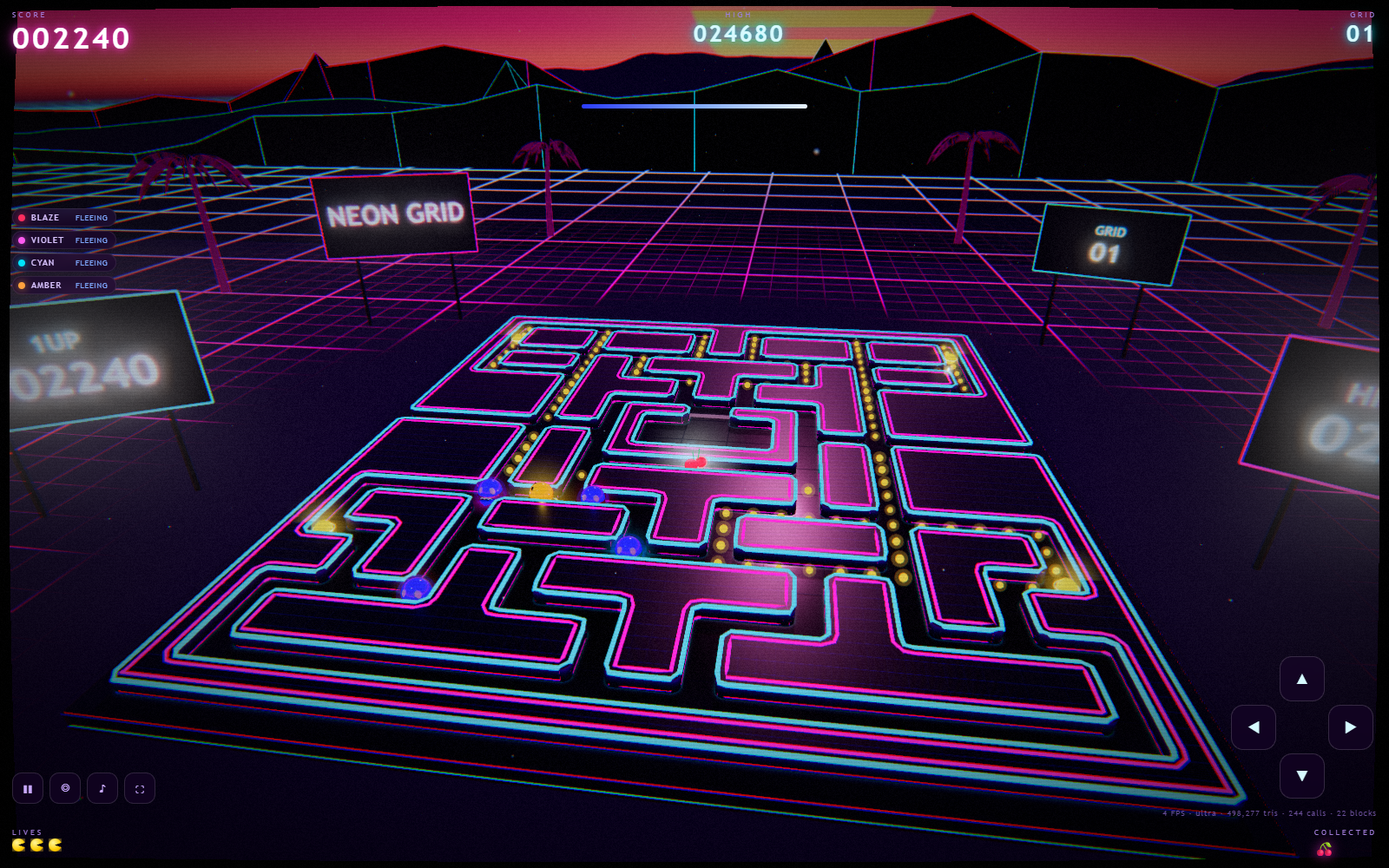
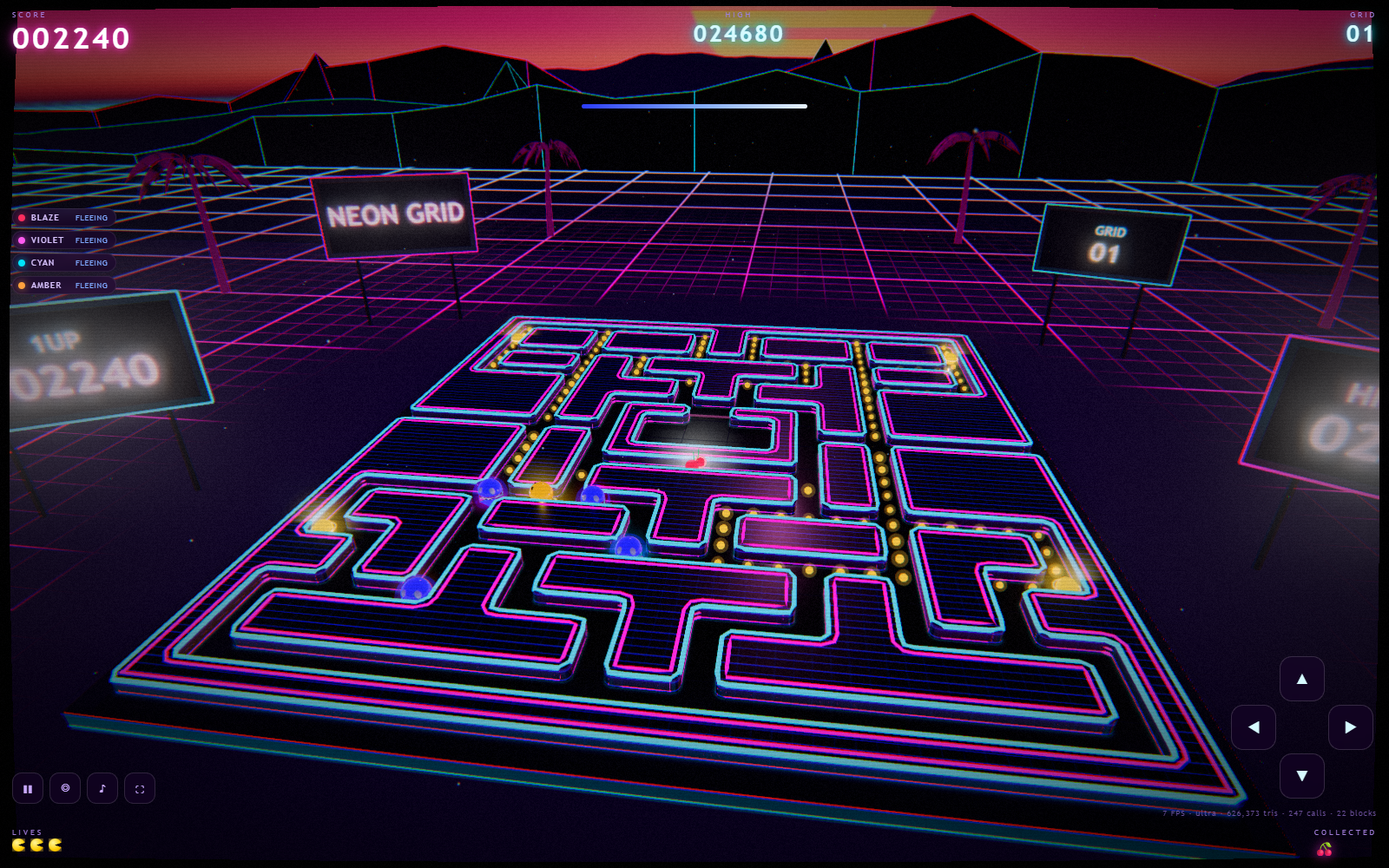
Emissive corridor panels, masked to the wall faces
The panel emissive had to be run nearly off because raising it lit the flat wall
tops, which are meant to be black mirrors. Masking the whole emissive term by the
same normal-derived side factor the rim ramp uses lets the FACES glow like backlit
panels while the tops stay dark, which is what the reference first-person shot
has and what the corridors were missing.

Also thinned the panel seams hard. At a vertical repeat of 3 with lines every
eight pixels the faces filled with dozens of stripes and read as a hypnotic
tunnel; a handful of seams across a wall reads as panelling.

README brought up to date: four cameras, the self-lighting environment bake, the
low-kerb rationale, and the three test suites.

190 assertions green.

diff --git a/docs/assets/index-DJubqB-T.js b/docs/assets/index-DJubqB-T.js
@@ -3855,7 +3855,7 @@ uniform vec3 uGhostRim;`).replace("#include <emissivemap_fragment>",`#include <e
         float a = fade * edge * (0.16 + 0.05 * sin(time * 3.0));
         gl_FragColor = vec4(colour * a * 2.0, a);
       }
-    `}),o=new ge(s,r);return i.add(o),{group:i,update(a){const l=.5+.5*Math.sin(a*3.4);n.scale.setScalar(.9+l*.25),n.rotation.y=a*.9,t.opacity=.35+l*.4,r.uniforms.time.value=a}}}const Vo=new Map;function ev(i){if(Vo.has(i))return Vo.get(i);const e=512,t=256,n=document.createElement("canvas");n.width=e,n.height=t;const s=n.getContext("2d");s.clearRect(0,0,e,t),s.font='bold 150px "Trebuchet MS", "Segoe UI", sans-serif',s.textAlign="center",s.textBaseline="middle",s.lineJoin="round",s.lineWidth=16,s.strokeStyle="rgba(6, 0, 24, 0.92)",s.strokeText(i,e/2,t/2),s.shadowColor="#00e9ff",s.shadowBlur=12,s.fillStyle="#7ef0ff",s.fillText(i,e/2,t/2);const r=new es(n);return r.colorSpace=Et,Vo.set(i,r),r}function tv(i=8){const e=new Ze,t=[];for(let n=0;n<i;n++){const s=new el({transparent:!0,depthWrite:!1,depthTest:!1,toneMapped:!1}),r=new Gu(s);r.visible=!1,r.scale.set(2.6,1.3,1),e.add(r),t.push(r)}return{group:e,sync(n){for(let s=0;s<t.length;s++){const r=t[s],o=n[s];if(!o){r.visible=!1;continue}const a=o.age/o.life;r.visible=!0;const l=ev(String(o.points));r.material.map!==l&&(r.material.map=l,r.material.needsUpdate=!0),r.position.set(ui(o.x),.7+a*1.5,hi(o.y)),r.material.opacity=1-a*a,r.scale.set(2.6+a*.8,1.3+a*.4,1)}}}}const Na=.26,Fa=i=>i-14,Oa=i=>15.5-i;function qc(i,e,t){return t<0||t>=an||e<0||e>=ht?!1:i[t][e]===_t.WALL}function nv(i){const e=new Uint8Array(ht*an),t=[];for(let n=0;n<an;n++)for(let s=0;s<ht;s++){if(!qc(i,s,n)||e[n*ht+s])continue;const r=[],o=[[s,n]];for(e[n*ht+s]=1;o.length;){const[a,l]=o.pop();r.push([a,l]);const c=[[a+1,l],[a-1,l],[a,l+1],[a,l-1]];for(const[u,h]of c)u<0||u>=ht||h<0||h>=an||!qc(i,u,h)||e[h*ht+u]||(e[h*ht+u]=1,o.push([u,h]))}t.push(r)}return t}function iv(i,e){const t=new Set(e.map(([l,c])=>`${l},${c}`)),n=(l,c)=>t.has(`${l},${c}`),s=new Map,r=(l,c,u,h)=>{const f=`${l},${c}`;s.has(f)||s.set(f,[]),s.get(f).push([u,h])};for(const[l,c]of e)n(l,c-1)||r(l+1,c,l,c),n(l,c+1)||r(l,c+1,l+1,c+1),n(l-1,c)||r(l,c,l,c+1),n(l+1,c)||r(l+1,c+1,l+1,c);const o=[];let a=0;for(;s.size&&a++<5e3;){const l=s.keys().next().value;let[c,u]=l.split(",").map(Number);const h=[[c,u]];let f=[c,u],m=0;for(;m++<5e3;){const g=`${f[0]},${f[1]}`,v=s.get(g);if(!v||v.length===0)break;const p=v.shift();if(v.length===0&&s.delete(g),f=p,f[0]===c&&f[1]===u)break;h.push(f)}h.length>=4&&o.push(h)}return o.map(sv)}function sv(i){const e=[],t=i.length;for(let n=0;n<t;n++){const s=i[(n-1+t)%t],r=i[n],o=i[(n+1)%t],a=r[0]-s[0],l=r[1]-s[1],c=o[0]-r[0],u=o[1]-r[1];a*u-l*c!==0&&e.push(r)}return e.length>=4?e:i}function Er(i){let e=0;for(let t=0;t<i.length;t++){const[n,s]=i[t],[r,o]=i[(t+1)%i.length];e+=n*o-r*s}return e/2}function Ba(i,e,t=5){const n=i.map(([o,a])=>new ne(Fa(o),Oa(a))),s=n.length,r=[];for(let o=0;o<s;o++){const a=n[(o-1+s)%s],l=n[o],c=n[(o+1)%s],u=l.clone().sub(a),h=c.clone().sub(l),f=u.length(),m=h.length();if(f<1e-6||m<1e-6)continue;u.divideScalar(f),h.divideScalar(m);const g=Math.min(e,f*.5,m*.5),v=l.clone().sub(u.clone().multiplyScalar(g)),p=l.clone().add(h.clone().multiplyScalar(g));r.push(v);for(let d=1;d<t;d++){const w=d/t,T=1-w;r.push(new ne(T*T*v.x+2*T*w*l.x+w*w*p.x,T*T*v.y+2*T*w*l.y+w*w*p.y))}r.push(p)}return r}function rv(i,e){const t=i.length;let n=0;for(let o=0;o<t;o++){const a=i[o],l=i[(o+1)%t];n+=a.x*l.y-l.x*a.y}const s=n>0?1:-1,r=[];for(let o=0;o<t;o++){const a=i[o],l=i[(o-1+t)%t],c=i[(o+1)%t],u=c.x-l.x,h=c.y-l.y,f=Math.hypot(u,h)||1,m=-h/f*s*e,g=u/f*s*e;r.push(new ne(a.x+m,a.y+g))}return r}function ov(i,e){const t=new Ku(Ba(i,Na));for(const n of e)t.holes.push(new La(Ba(n,Na)));return t}function Tr(i,e,t,n){const s=i.map(a=>new D(a.x,e,-a.y)),r=new Xu(s,!0,"catmullrom",.02),o=Math.max(24,Math.min(1200,Math.round(r.getLength()*2.4)));return new ol(r,o,t,n,!0)}function av(){const e=document.createElement("canvas");e.width=e.height=256;const t=e.getContext("2d");t.fillStyle="#000000",t.fillRect(0,0,256,256),t.strokeStyle="rgba(150, 90, 255, 0.5)",t.lineWidth=1;for(let s=4;s<256;s+=8)t.beginPath(),t.moveTo(0,s+.5),t.lineTo(256,s+.5),t.stroke();t.strokeStyle="rgba(215, 150, 255, 0.95)",t.lineWidth=2;for(let s=0;s<256;s+=32)t.beginPath(),t.moveTo(0,s+.5),t.lineTo(256,s+.5),t.stroke();t.strokeStyle="rgba(0, 220, 255, 0.28)";for(let s=0;s<256;s+=64)t.beginPath(),t.moveTo(s+.5,0),t.lineTo(s+.5,256),t.stroke();const n=new es(e);return n.colorSpace=Et,n.wrapS=bs,n.wrapT=bs,n.repeat.set(.5,3),n.anisotropy=4,n}function lv(i,e=1024){const t=document.createElement("canvas");t.width=e,t.height=e;const n=t.getContext("2d");n.fillStyle="#000000",n.fillRect(0,0,e,e);const s=34,r=l=>(l+s/2)/s*e,o=[{blur:34,width:11,alpha:.13},{blur:16,width:6,alpha:.24},{blur:6,width:2.6,alpha:.62}];for(const l of o){n.save(),n.globalCompositeOperation="lighter",n.shadowBlur=l.blur,n.lineWidth=l.width,n.lineJoin="round",n.lineCap="round";for(const{poly:c,near:u}of i){const h=u?`rgba(255, 60, 220, ${l.alpha})`:`rgba(60, 230, 255, ${l.alpha})`;n.strokeStyle=h,n.shadowColor=h,n.beginPath(),c.forEach((f,m)=>{const g=r(f.x),v=e-r(f.y);m===0?n.moveTo(g,v):n.lineTo(g,v)}),n.closePath(),n.stroke()}n.restore()}const a=new es(t);return a.colorSpace=Et,a.wrapS=Rn,a.wrapT=Rn,a.needsUpdate=!0,{texture:a,span:s}}function cv(i,e){const t=nv(i.tiles),n=[],s=[],r=[],o=[],a=[],l=[],c=[];for(const J of t){const R=iv(i.tiles,J);if(!R.length)continue;R.sort((V,$)=>Math.abs(Er($))-Math.abs(Er(V)));const ue=R[0],ie=R.slice(1),Me=Er(ue.map(([V,$])=>[Fa(V),Oa($)])),ce=(V,$)=>{const te=Er(V.map(([j,Te])=>[Fa(j),Oa(Te)]));return $===te>0?V:[...V].reverse()},De=Me>0?ue:[...ue].reverse(),me=ie.map(V=>ce(V,!1)),P=ov(De,me),E=new rl(P,{depth:fn,bevelEnabled:!0,bevelThickness:.04,bevelSize:.045,bevelSegments:e.bevelSegments,curveSegments:4});E.rotateX(-Math.PI/2),n.push(E);for(const V of[De,...me]){const $=Ba(V,Na,e.tubeArcSegments);s.push(Tr($,fn+.02,yr,e.tubeRadial));const te=rv($,.235);r.push(Tr(te,fn+.02,yr*.86,e.tubeRadial)),o.push(Tr($,.07,yr*.7,Math.max(4,e.tubeRadial-2))),a.push(Tr($,fn*.52,yr*.5,Math.max(4,e.tubeRadial-3)));let j=0;for(let Te=1;Te<$.length;Te++){const he=$[Te-1],_e=$[Te],Ye=Math.hypot(_e.x-he.x,_e.y-he.y);if(j+=Ye,j<1.6)continue;j=0;const oe=new Gt(.095,fn*.8,.07),we=Math.atan2(-(_e.y-he.y),_e.x-he.x);oe.rotateY(-we),oe.translate(_e.x,fn*.42,-_e.y),l.push(oe)}c.push({poly:$,near:!1})}}const u=J=>{if(J.length===0)return null;const R=za(J);return J.forEach(ue=>ue.dispose()),R},h=u(n),f=u(s),m=u(r),g=u(o),v=u(a),p=u(l),d=av(),w=new _n({color:$e.wallBody,metalness:.62,roughness:.22,clearcoat:1,clearcoatRoughness:.32,envMapIntensity:.7,emissiveMap:d,emissive:new fe(6966271),emissiveIntensity:.07});w.onBeforeCompile=J=>{J.uniforms.uRimLow={value:new fe(655384)},J.uniforms.uRimHigh={value:new fe(6036660)},J.uniforms.uWallHeight={value:fn},J.vertexShader=J.vertexShader.replace("#include <common>",`#include <common>
+    `}),o=new ge(s,r);return i.add(o),{group:i,update(a){const l=.5+.5*Math.sin(a*3.4);n.scale.setScalar(.9+l*.25),n.rotation.y=a*.9,t.opacity=.35+l*.4,r.uniforms.time.value=a}}}const Vo=new Map;function ev(i){if(Vo.has(i))return Vo.get(i);const e=512,t=256,n=document.createElement("canvas");n.width=e,n.height=t;const s=n.getContext("2d");s.clearRect(0,0,e,t),s.font='bold 150px "Trebuchet MS", "Segoe UI", sans-serif',s.textAlign="center",s.textBaseline="middle",s.lineJoin="round",s.lineWidth=16,s.strokeStyle="rgba(6, 0, 24, 0.92)",s.strokeText(i,e/2,t/2),s.shadowColor="#00e9ff",s.shadowBlur=12,s.fillStyle="#7ef0ff",s.fillText(i,e/2,t/2);const r=new es(n);return r.colorSpace=Et,Vo.set(i,r),r}function tv(i=8){const e=new Ze,t=[];for(let n=0;n<i;n++){const s=new el({transparent:!0,depthWrite:!1,depthTest:!1,toneMapped:!1}),r=new Gu(s);r.visible=!1,r.scale.set(2.6,1.3,1),e.add(r),t.push(r)}return{group:e,sync(n){for(let s=0;s<t.length;s++){const r=t[s],o=n[s];if(!o){r.visible=!1;continue}const a=o.age/o.life;r.visible=!0;const l=ev(String(o.points));r.material.map!==l&&(r.material.map=l,r.material.needsUpdate=!0),r.position.set(ui(o.x),.7+a*1.5,hi(o.y)),r.material.opacity=1-a*a,r.scale.set(2.6+a*.8,1.3+a*.4,1)}}}}const Na=.26,Fa=i=>i-14,Oa=i=>15.5-i;function qc(i,e,t){return t<0||t>=an||e<0||e>=ht?!1:i[t][e]===_t.WALL}function nv(i){const e=new Uint8Array(ht*an),t=[];for(let n=0;n<an;n++)for(let s=0;s<ht;s++){if(!qc(i,s,n)||e[n*ht+s])continue;const r=[],o=[[s,n]];for(e[n*ht+s]=1;o.length;){const[a,l]=o.pop();r.push([a,l]);const c=[[a+1,l],[a-1,l],[a,l+1],[a,l-1]];for(const[u,h]of c)u<0||u>=ht||h<0||h>=an||!qc(i,u,h)||e[h*ht+u]||(e[h*ht+u]=1,o.push([u,h]))}t.push(r)}return t}function iv(i,e){const t=new Set(e.map(([l,c])=>`${l},${c}`)),n=(l,c)=>t.has(`${l},${c}`),s=new Map,r=(l,c,u,h)=>{const f=`${l},${c}`;s.has(f)||s.set(f,[]),s.get(f).push([u,h])};for(const[l,c]of e)n(l,c-1)||r(l+1,c,l,c),n(l,c+1)||r(l,c+1,l+1,c+1),n(l-1,c)||r(l,c,l,c+1),n(l+1,c)||r(l+1,c+1,l+1,c);const o=[];let a=0;for(;s.size&&a++<5e3;){const l=s.keys().next().value;let[c,u]=l.split(",").map(Number);const h=[[c,u]];let f=[c,u],m=0;for(;m++<5e3;){const g=`${f[0]},${f[1]}`,v=s.get(g);if(!v||v.length===0)break;const p=v.shift();if(v.length===0&&s.delete(g),f=p,f[0]===c&&f[1]===u)break;h.push(f)}h.length>=4&&o.push(h)}return o.map(sv)}function sv(i){const e=[],t=i.length;for(let n=0;n<t;n++){const s=i[(n-1+t)%t],r=i[n],o=i[(n+1)%t],a=r[0]-s[0],l=r[1]-s[1],c=o[0]-r[0],u=o[1]-r[1];a*u-l*c!==0&&e.push(r)}return e.length>=4?e:i}function Er(i){let e=0;for(let t=0;t<i.length;t++){const[n,s]=i[t],[r,o]=i[(t+1)%i.length];e+=n*o-r*s}return e/2}function Ba(i,e,t=5){const n=i.map(([o,a])=>new ne(Fa(o),Oa(a))),s=n.length,r=[];for(let o=0;o<s;o++){const a=n[(o-1+s)%s],l=n[o],c=n[(o+1)%s],u=l.clone().sub(a),h=c.clone().sub(l),f=u.length(),m=h.length();if(f<1e-6||m<1e-6)continue;u.divideScalar(f),h.divideScalar(m);const g=Math.min(e,f*.5,m*.5),v=l.clone().sub(u.clone().multiplyScalar(g)),p=l.clone().add(h.clone().multiplyScalar(g));r.push(v);for(let d=1;d<t;d++){const w=d/t,T=1-w;r.push(new ne(T*T*v.x+2*T*w*l.x+w*w*p.x,T*T*v.y+2*T*w*l.y+w*w*p.y))}r.push(p)}return r}function rv(i,e){const t=i.length;let n=0;for(let o=0;o<t;o++){const a=i[o],l=i[(o+1)%t];n+=a.x*l.y-l.x*a.y}const s=n>0?1:-1,r=[];for(let o=0;o<t;o++){const a=i[o],l=i[(o-1+t)%t],c=i[(o+1)%t],u=c.x-l.x,h=c.y-l.y,f=Math.hypot(u,h)||1,m=-h/f*s*e,g=u/f*s*e;r.push(new ne(a.x+m,a.y+g))}return r}function ov(i,e){const t=new Ku(Ba(i,Na));for(const n of e)t.holes.push(new La(Ba(n,Na)));return t}function Tr(i,e,t,n){const s=i.map(a=>new D(a.x,e,-a.y)),r=new Xu(s,!0,"catmullrom",.02),o=Math.max(24,Math.min(1200,Math.round(r.getLength()*2.4)));return new ol(r,o,t,n,!0)}function av(){const e=document.createElement("canvas");e.width=e.height=256;const t=e.getContext("2d");t.fillStyle="#000000",t.fillRect(0,0,256,256),t.strokeStyle="rgba(150, 95, 255, 0.14)",t.lineWidth=1;for(let s=4;s<256;s+=8)t.beginPath(),t.moveTo(0,s+.5),t.lineTo(256,s+.5),t.stroke();t.strokeStyle="rgba(215, 150, 255, 0.9)",t.lineWidth=3;for(let s=0;s<256;s+=84)t.beginPath(),t.moveTo(0,s+.5),t.lineTo(256,s+.5),t.stroke();t.strokeStyle="rgba(0, 230, 255, 0.2)";for(let s=0;s<256;s+=64)t.beginPath(),t.moveTo(s+.5,0),t.lineTo(s+.5,256),t.stroke();const n=new es(e);return n.colorSpace=Et,n.wrapS=bs,n.wrapT=bs,n.repeat.set(.5,1.1),n.anisotropy=4,n}function lv(i,e=1024){const t=document.createElement("canvas");t.width=e,t.height=e;const n=t.getContext("2d");n.fillStyle="#000000",n.fillRect(0,0,e,e);const s=34,r=l=>(l+s/2)/s*e,o=[{blur:34,width:11,alpha:.13},{blur:16,width:6,alpha:.24},{blur:6,width:2.6,alpha:.62}];for(const l of o){n.save(),n.globalCompositeOperation="lighter",n.shadowBlur=l.blur,n.lineWidth=l.width,n.lineJoin="round",n.lineCap="round";for(const{poly:c,near:u}of i){const h=u?`rgba(255, 60, 220, ${l.alpha})`:`rgba(60, 230, 255, ${l.alpha})`;n.strokeStyle=h,n.shadowColor=h,n.beginPath(),c.forEach((f,m)=>{const g=r(f.x),v=e-r(f.y);m===0?n.moveTo(g,v):n.lineTo(g,v)}),n.closePath(),n.stroke()}n.restore()}const a=new es(t);return a.colorSpace=Et,a.wrapS=Rn,a.wrapT=Rn,a.needsUpdate=!0,{texture:a,span:s}}function cv(i,e){const t=nv(i.tiles),n=[],s=[],r=[],o=[],a=[],l=[],c=[];for(const J of t){const R=iv(i.tiles,J);if(!R.length)continue;R.sort((V,$)=>Math.abs(Er($))-Math.abs(Er(V)));const ue=R[0],ie=R.slice(1),Me=Er(ue.map(([V,$])=>[Fa(V),Oa($)])),ce=(V,$)=>{const te=Er(V.map(([j,Te])=>[Fa(j),Oa(Te)]));return $===te>0?V:[...V].reverse()},De=Me>0?ue:[...ue].reverse(),me=ie.map(V=>ce(V,!1)),P=ov(De,me),E=new rl(P,{depth:fn,bevelEnabled:!0,bevelThickness:.04,bevelSize:.045,bevelSegments:e.bevelSegments,curveSegments:4});E.rotateX(-Math.PI/2),n.push(E);for(const V of[De,...me]){const $=Ba(V,Na,e.tubeArcSegments);s.push(Tr($,fn+.02,yr,e.tubeRadial));const te=rv($,.235);r.push(Tr(te,fn+.02,yr*.86,e.tubeRadial)),o.push(Tr($,.07,yr*.7,Math.max(4,e.tubeRadial-2))),a.push(Tr($,fn*.52,yr*.5,Math.max(4,e.tubeRadial-3)));let j=0;for(let Te=1;Te<$.length;Te++){const he=$[Te-1],_e=$[Te],Ye=Math.hypot(_e.x-he.x,_e.y-he.y);if(j+=Ye,j<1.6)continue;j=0;const oe=new Gt(.095,fn*.8,.07),we=Math.atan2(-(_e.y-he.y),_e.x-he.x);oe.rotateY(-we),oe.translate(_e.x,fn*.42,-_e.y),l.push(oe)}c.push({poly:$,near:!1})}}const u=J=>{if(J.length===0)return null;const R=za(J);return J.forEach(ue=>ue.dispose()),R},h=u(n),f=u(s),m=u(r),g=u(o),v=u(a),p=u(l),d=av(),w=new _n({color:$e.wallBody,metalness:.62,roughness:.22,clearcoat:1,clearcoatRoughness:.32,envMapIntensity:.7,emissiveMap:d,emissive:new fe(10640639),emissiveIntensity:.5});w.onBeforeCompile=J=>{J.uniforms.uRimLow={value:new fe(655384)},J.uniforms.uRimHigh={value:new fe(6036660)},J.uniforms.uWallHeight={value:fn},J.vertexShader=J.vertexShader.replace("#include <common>",`#include <common>
 varying float vWallY;
 varying float vWallSide;`).replace("#include <begin_vertex>",`#include <begin_vertex>
   vWallY = position.y;
@@ -3894,7 +3894,7 @@ uniform float uWallHeight;`).replace("#include <emissivemap_fragment>",`#include
 
         gl_FragColor = vec4(c, a);
       }
-    `}),k=new ge(Ne,Ge);k.position.y=0,k.renderOrder=1,pe.add(k);const Y=new un(re.span,re.span);Y.rotateX(-Math.PI/2);const le=new et({map:re.texture,transparent:!0,blending:Rt,depthWrite:!1,opacity:.14,toneMapped:!1}),Q=new ge(Y,le);Q.position.y=.004,Q.renderOrder=3,pe.add(Q);const Ee=.62,Pe=ht+1.6,Le=an+1.6,Ae=new ge(new Gt(Pe,Ee,Le),new _n({color:262922,metalness:.7,roughness:.16,clearcoat:1,clearcoatRoughness:.1,envMapIntensity:.9}));Ae.position.y=-Ee/2-.02,pe.add(Ae);for(const[J,R]of[[$e.neonMagenta,-.05],[$e.neonCyan,-Ee+.12]]){const ue=new ge(new Gt(Pe+.03,.03,Le+.03),new et({color:J,toneMapped:!1}));ue.position.y=R,pe.add(ue)}if(e.shadows){const J=new un(re.span,re.span);J.rotateX(-Math.PI/2);const R=new ge(J,new Kd({opacity:.42}));R.position.y=.002,R.receiveShadow=!0,R.renderOrder=2,pe.add(R)}let Z=null;if(e.reflections){Z=new Ze;const J=new ge(h,new _n({color:$e.wallBodyDeep,metalness:.9,roughness:.34,envMapIntensity:.8,transparent:!0,opacity:.8,side:gt})),R=new ge(f,new et({color:$e.neonCyan,toneMapped:!1,transparent:!0,opacity:.6,side:gt,blending:Rt,depthWrite:!1})),ue=new ge(g,new et({color:$e.neonMagenta,toneMapped:!1,transparent:!0,opacity:.34,side:gt,blending:Rt,depthWrite:!1})),ie=new ge(m,new et({color:$e.neonMagenta,toneMapped:!1,transparent:!0,opacity:.6,side:gt,blending:Rt,depthWrite:!1}));Z.add(J,R,ie,ue),se.push({slab:J,lifts:[[R,1],[ie,1]],strips:null}),Z.children.forEach(Me=>Me.renderOrder=-2),Z.scale.y=-1,Z.position.y=-.006}return{group:M,floorGroup:pe,mirror:Z,gate:X,componentCount:t.length,setStretch(J,R){const ue=B+(J-B)*Math.min(1,R*5);if(Math.abs(ue-B)<1e-4&&Math.abs(ue-J)<1e-4)return;B=ue;const ie=(ue-1)*fn;for(const{slab:Me,lifts:ce,strips:De}of se){Me.scale.y=ue;for(const[me,P]of ce)me.position.y=ie*P;De&&(De.scale.y=ue)}},setReflections(J){Z&&(Z.visible=J),Ge.uniforms.opacity.value=J?.4:.985},update(J,R){A.opacity=.72+.14*Math.sin(J*2.1),I.opacity=.78+.14*Math.sin(J*2.1+1.2),N.opacity=.3+.16*Math.sin(J*3.4),R?(w.emissive.setHex(4943359),w.emissiveIntensity=.5+.2*Math.sin(J*9)):(w.emissive.setHex(6966271),w.emissiveIntensity=.07)},dispose(){h.dispose(),f.dispose(),p&&p.dispose(),v&&v.dispose(),m.dispose(),g.dispose(),re.texture.dispose(),d.dispose()}}}function za(i){const t=["position","normal","uv"].filter(u=>i.every(h=>h.attributes[u]));let n=0,s=0;for(const u of i)n+=u.attributes.position.count,s+=u.index?u.index.count:u.attributes.position.count;const r={};for(const u of t){const h=i[0].attributes[u].itemSize;r[u]={data:new Float32Array(n*h),itemSize:h,offset:0}}const o=n>65535?new Uint32Array(s):new Uint16Array(s);let a=0,l=0;for(const u of i){const h=u.attributes.position.count;for(const f of t){const m=u.attributes[f],g=r[f];g.data.set(m.array.subarray(0,h*g.itemSize),g.offset),g.offset+=h*g.itemSize}if(u.index){const f=u.index.array;for(let m=0;m<f.length;m++)o[l+m]=f[m]+a;l+=f.length}else{for(let f=0;f<h;f++)o[l+f]=a+f;l+=h}a+=h}const c=new ct;for(const u of t)c.setAttribute(u,new kt(r[u].data,r[u].itemSize));return c.setIndex(new kt(o,1)),c.computeBoundingSphere(),c}const ch=new D(.01,.125,-1).normalize(),uv=`
+    `}),k=new ge(Ne,Ge);k.position.y=0,k.renderOrder=1,pe.add(k);const Y=new un(re.span,re.span);Y.rotateX(-Math.PI/2);const le=new et({map:re.texture,transparent:!0,blending:Rt,depthWrite:!1,opacity:.14,toneMapped:!1}),Q=new ge(Y,le);Q.position.y=.004,Q.renderOrder=3,pe.add(Q);const Ee=.62,Pe=ht+1.6,Le=an+1.6,Ae=new ge(new Gt(Pe,Ee,Le),new _n({color:262922,metalness:.7,roughness:.16,clearcoat:1,clearcoatRoughness:.1,envMapIntensity:.9}));Ae.position.y=-Ee/2-.02,pe.add(Ae);for(const[J,R]of[[$e.neonMagenta,-.05],[$e.neonCyan,-Ee+.12]]){const ue=new ge(new Gt(Pe+.03,.03,Le+.03),new et({color:J,toneMapped:!1}));ue.position.y=R,pe.add(ue)}if(e.shadows){const J=new un(re.span,re.span);J.rotateX(-Math.PI/2);const R=new ge(J,new Kd({opacity:.42}));R.position.y=.002,R.receiveShadow=!0,R.renderOrder=2,pe.add(R)}let Z=null;if(e.reflections){Z=new Ze;const J=new ge(h,new _n({color:$e.wallBodyDeep,metalness:.9,roughness:.34,envMapIntensity:.8,transparent:!0,opacity:.8,side:gt})),R=new ge(f,new et({color:$e.neonCyan,toneMapped:!1,transparent:!0,opacity:.6,side:gt,blending:Rt,depthWrite:!1})),ue=new ge(g,new et({color:$e.neonMagenta,toneMapped:!1,transparent:!0,opacity:.34,side:gt,blending:Rt,depthWrite:!1})),ie=new ge(m,new et({color:$e.neonMagenta,toneMapped:!1,transparent:!0,opacity:.6,side:gt,blending:Rt,depthWrite:!1}));Z.add(J,R,ie,ue),se.push({slab:J,lifts:[[R,1],[ie,1]],strips:null}),Z.children.forEach(Me=>Me.renderOrder=-2),Z.scale.y=-1,Z.position.y=-.006}return{group:M,floorGroup:pe,mirror:Z,gate:X,componentCount:t.length,setStretch(J,R){const ue=B+(J-B)*Math.min(1,R*5);if(Math.abs(ue-B)<1e-4&&Math.abs(ue-J)<1e-4)return;B=ue;const ie=(ue-1)*fn;for(const{slab:Me,lifts:ce,strips:De}of se){Me.scale.y=ue;for(const[me,P]of ce)me.position.y=ie*P;De&&(De.scale.y=ue)}},setReflections(J){Z&&(Z.visible=J),Ge.uniforms.opacity.value=J?.4:.985},update(J,R){A.opacity=.72+.14*Math.sin(J*2.1),I.opacity=.78+.14*Math.sin(J*2.1+1.2),N.opacity=.3+.16*Math.sin(J*3.4),R?(w.emissive.setHex(6257919),w.emissiveIntensity=.9+.3*Math.sin(J*9)):(w.emissive.setHex(10640639),w.emissiveIntensity=.5)},dispose(){h.dispose(),f.dispose(),p&&p.dispose(),v&&v.dispose(),m.dispose(),g.dispose(),re.texture.dispose(),d.dispose()}}}function za(i){const t=["position","normal","uv"].filter(u=>i.every(h=>h.attributes[u]));let n=0,s=0;for(const u of i)n+=u.attributes.position.count,s+=u.index?u.index.count:u.attributes.position.count;const r={};for(const u of t){const h=i[0].attributes[u].itemSize;r[u]={data:new Float32Array(n*h),itemSize:h,offset:0}}const o=n>65535?new Uint32Array(s):new Uint16Array(s);let a=0,l=0;for(const u of i){const h=u.attributes.position.count;for(const f of t){const m=u.attributes[f],g=r[f];g.data.set(m.array.subarray(0,h*g.itemSize),g.offset),g.offset+=h*g.itemSize}if(u.index){const f=u.index.array;for(let m=0;m<f.length;m++)o[l+m]=f[m]+a;l+=f.length}else{for(let f=0;f<h;f++)o[l+f]=a+f;l+=h}a+=h}const c=new ct;for(const u of t)c.setAttribute(u,new kt(r[u].data,r[u].itemSize));return c.setIndex(new kt(o,1)),c.computeBoundingSphere(),c}const ch=new D(.01,.125,-1).normalize(),uv=`
   varying vec3 vDir;
   void main() {
     vDir = position;

diff --git a/src/render/mazeMesh.js b/src/render/mazeMesh.js
@@ -276,7 +276,7 @@ function panelTexture() {
   ctx.fillStyle = '#000000';
   ctx.fillRect(0, 0, size, size);
 
-  ctx.strokeStyle = 'rgba(150, 90, 255, 0.5)';
+  ctx.strokeStyle = 'rgba(150, 95, 255, 0.14)';
   ctx.lineWidth = 1;
   for (let y = 4; y < size; y += 8) {
     ctx.beginPath();
@@ -284,15 +284,15 @@ function panelTexture() {
     ctx.lineTo(size, y + 0.5);
     ctx.stroke();
   }
-  ctx.strokeStyle = 'rgba(215, 150, 255, 0.95)';
-  ctx.lineWidth = 2;
-  for (let y = 0; y < size; y += 32) {
+  ctx.strokeStyle = 'rgba(215, 150, 255, 0.9)';
+  ctx.lineWidth = 3;
+  for (let y = 0; y < size; y += 84) {
     ctx.beginPath();
     ctx.moveTo(0, y + 0.5);
     ctx.lineTo(size, y + 0.5);
     ctx.stroke();
   }
-  ctx.strokeStyle = 'rgba(0, 220, 255, 0.28)';
+  ctx.strokeStyle = 'rgba(0, 230, 255, 0.2)';
   for (let x = 0; x < size; x += 64) {
     ctx.beginPath();
     ctx.moveTo(x + 0.5, 0);
@@ -304,9 +304,10 @@ function panelTexture() {
   tex.colorSpace = THREE.SRGBColorSpace;
   tex.wrapS = THREE.RepeatWrapping;
   tex.wrapT = THREE.RepeatWrapping;
-  // A tighter vertical repeat: the side faces are short, and at 0.5 they only
-  // showed a fraction of one tile, so the panel seams never read.
-  tex.repeat.set(0.5, 3);
+  // Enough vertical repeat for a handful of seams across a wall face, and no
+  // more: at 3 the faces filled with dozens of stripes and read as a hypnotic
+  // tunnel rather than as panelling.
+  tex.repeat.set(0.5, 1.1);
   tex.anisotropy = 4;
   return tex;
 }
@@ -482,8 +483,10 @@ export function buildMaze(maze, quality) {
     // a sun, so there is no single lobe to blow out.
     envMapIntensity: 0.7,
     emissiveMap: panel,
-    emissive: new THREE.Color(0x6a4bff),
-    emissiveIntensity: 0.07,
+    emissive: new THREE.Color(0xa25cff),
+    // Safe to run bright now that the emissive term is masked to vertical faces:
+    // the corridor walls read as backlit panels while the tops stay mirrors.
+    emissiveIntensity: 0.5,
   });
 
   // Light spill down the wall sides. In the reference art the black acrylic is
@@ -805,11 +808,11 @@ export function buildMaze(maze, quality) {
       gateMat.opacity = 0.3 + 0.16 * Math.sin(time * 3.4);
       if (frightened) {
         // Cool the whole maze down while an energizer is active.
-        slabMat.emissive.setHex(0x4b6dff);
-        slabMat.emissiveIntensity = 0.5 + 0.2 * Math.sin(time * 9);
+        slabMat.emissive.setHex(0x5f7cff);
+        slabMat.emissiveIntensity = 0.9 + 0.3 * Math.sin(time * 9);
       } else {
-        slabMat.emissive.setHex(0x6a4bff);
-        slabMat.emissiveIntensity = 0.07;
+        slabMat.emissive.setHex(0xa25cff);
+        slabMat.emissiveIntensity = 0.5;
       }
     },
     dispose() {

diff --git a/docs/index.html b/docs/index.html
@@ -16,7 +16,7 @@
     <link rel="manifest" href="./manifest.webmanifest" />
     <link rel="icon" href="./icon.svg" type="image/svg+xml" />
     <link rel="apple-touch-icon" href="./icon-180.png" />
-    <script type="module" crossorigin src="./assets/index-DTeBkNU2.js"></script>
+    <script type="module" crossorigin src="./assets/index-DJubqB-T.js"></script>
     <link rel="stylesheet" crossorigin href="./assets/index-FXWM4Btj.css">
   </head>
   <body>

diff --git a/README.md b/README.md
@@ -34,11 +34,19 @@ tricks stacked deliberately:
 
 - **Wall silhouettes, not cubes.** Each connected wall region's true outline is extracted
   by marching-edge boundary tracing, corner-rounded, and extruded into a bevelled slab.
-  The arcade's *double-line* wall is reproduced by running two neon tubes — one on the
-  silhouette, one inset — as real swept tube geometry, so the neon has thickness and
-  catches light.
-- **A magenta-to-cyan depth gradient** painted into the tube vertex colours, so the maze
-  reads as a gradient from hot pink at the near edge to ice cyan at the far edge.
+  Every kerb then carries **three** swept neon tubes — cyan on the silhouette, magenta on
+  an inset partner line, and a magenta rule at waist height — plus vertical strips down
+  the faces, so the neon has real thickness and reads from any angle.
+- **The maze lights itself.** A cube render from the middle of the board is PMREM-filtered
+  into the scene environment, so every glossy surface reflects the maze's own neon. That is
+  what produces the wet-black look; with only the sky to reflect, the walls read matte. The
+  sun is masked during the bake — it is orders of magnitude brighter than the neon and would
+  dominate every reflection.
+- **Low kerbs.** Walls are well under a tile tall. At the game's camera angle a tile-tall
+  wall occludes more than a tile of floor behind it, which made whole runs of pellets look
+  unreachable even though they never were. In first person the same geometry stretches into
+  full-height corridors, with the tubes translated rather than scaled so their cross-sections
+  stay round.
 - **Baked light spill.** The same silhouettes are stroked into a blurred canvas and used
   as the floor's emissive, so the neon appears to bleed onto the ground — a cheap, stable
   stand-in for global illumination.
@@ -50,9 +58,13 @@ tricks stacked deliberately:
 - **Environment:** shader sky with a banded sun, star field, a distance-LOD infinite grid,
   layered mountain ridges with neon rims, drifting motes and slow volumetric shafts.
 
-Three cameras: a framed **overview** that always fits the whole maze at any aspect ratio,
-a dramatic **chase** cam, and a **cinematic** sweep that drops low enough to put the
-setting sun dead centre behind the ridgeline.
+Four cameras, each with its own field of view: a framed **overview** that fits the whole
+maze at any aspect ratio and sits below half the FOV so the sunset stays in shot, a
+three-quarter **chase** cam, a **first-person** view inside the corridors — the mode the
+planned VR port will use — and a **cinematic** sweep composed for the sunset.
+
+Depth of field is deliberately absent. It suits a still, but a headset renders per eye and
+the viewer's own eyes accommodate, so baked DoF in VR reads as blur.
 
 ![Sunset](media/cinematic.png)
 
@@ -71,9 +83,9 @@ A-minor progression. Intensity rises with the level.
 | Action | Desktop | Touch |
 |---|---|---|
 | Move | WASD / arrows | swipe anywhere, or the thumb pad |
+| Camera cycle | C | ◎ button (overview → chase → first person → cinematic) |
 | Start / resume | Enter or Space | tap |
 | Pause | P or Esc | ❚❚ button |
-| Camera | C | ◎ button |
 | Sound | M | ♪ button |
 | Fullscreen | F | ⛶ button |
 
@@ -89,7 +101,7 @@ automatically by a frame-time watchdog if a device misses budget. The tiers trad
 shadows, reflections, mote count, light count, bloom, tube tessellation and pixel ratio;
 the neon look survives all the way down.
 
-Typical desktop GPU: ~420k triangles, ~170 draw calls at the ultra tier.
+Typical desktop GPU: ~640k triangles, ~275 draw calls at the ultra tier.
 
 ## Developing
 
@@ -97,8 +109,9 @@ Typical desktop GPU: ~420k triangles, ~170 draw calls at the ultra tier.
 npm install
 npm run dev            # vite dev server
 npm run build          # static build into docs/ (what GitHub Pages serves)
-npm test               # 153 headless simulation assertions
-npm run test:e2e       # 31 browser assertions, desktop + iPhone viewports
+npm test               # 158 assertions: simulation + geometry/grid agreement
+npm run test:e2e       # 32 browser assertions, desktop + iPhone viewports
+npm run gallery        # renders the still gallery under media/
 ```
 
 The test suites are the interesting part:
@@ -111,6 +124,10 @@ The test suites are the interesting part:
   screenshots in-process, and asserts on *pixels*: that magenta and cyan neon are actually
   present, that the whole maze fits a portrait iPhone viewport, that the touch pad works,
   that no JavaScript errors occur across a soak.
+- **`tests/geometry.test.mjs`** checks that the traced wall silhouettes agree with the
+  logical grid — that no collectible sits inside a wall, none is stranded in an isolated
+  pocket, and every one keeps visual clearance from the neon. Written after a report that
+  some pellets looked unreachable: they never were, but tall walls were hiding them.
 - **`tests/maze-preview.mjs`** renders the maze grid in the original's own 8-pixel style so
   the layout can be compared against a reference screenshot tile by tile.
 
